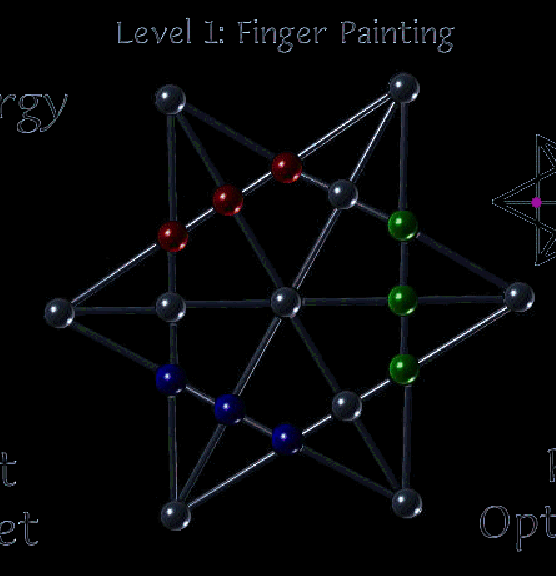
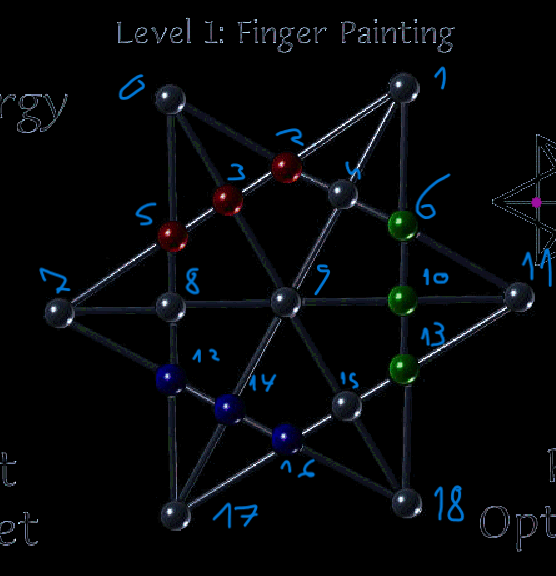
draw board

diff --git a/src/drop.py b/src/drop.py
@@ -1,40 +1,130 @@
-def move(fr, to):
-    
-    return 0
+import pygame
 
-def split(photon):
-    
-    return 0
+photon = {
+            'red':[(255,0,0),{'green':'moregreen', 'blue':'purple', 'cyan':'cyan'}, {'green':'yellow', 'blue':'purple'}, []],
+            'blue':[(0,0,255),{'red':'violet', 'green':'aqua_green', 'yellow':'light_yellow'}, {'green':'cyan', 'red':'purple'}, []],
+            'green':[(0,255,0),{'red':'orange', 'blue':'blue_sky', 'purple':'pink'}, {'red':'yellow', 'blue':'cyan'}, []],
+            'cyan':[(0,255,255),{'red':'beige'},{'red':'white'},['blue', 'green']],
+            'yellow':[(255,255,0),{'blue':'light_blue'},{'blue':'white'},['red', 'green']],
+            'purple':[(255,0,255),{'green':'light_green'},{'green':'white'},['red', 'blue']],
+            'white':[(255,255,255),0, 0, ['red', 'green', 'blue']]
+        } #{photon:[code, {pigment:mix}, {photon:mix}, [splits]]}
 
-def check_can_move(fr, to): #can move to space (empty and connected)
-    
-    return 0
+nodes = {
+        0:[2,3,5], 1:[2,4,6], 
+        2:[1,2,4,5], 
+        3:[0,2,5], 4:[1,2,6], 
+        5:[0,3,7,8], 6:[1,4,10,11], 
+        7:[5,8,12], 8:[5,7,9,12], 9:[3,4,8,10,14,15], 10:[6,9,11,13], 11:[6,10,13],
+        12:[7,8,9,14,17], 13:[10,11,15,18],
+        14:[9,12,16,17], 15:[9,13,16,18],
+        16:[14,15,17,18],
+        17:[12,14,16], 18:[13,15,16]
+        } #node1 -> node2, node2 -> node1
 
-def check_can_merge(fr, to): #can merge color
-    
-    return 0
+coords = [(250, 100),(550, 100),
+              (400, 160),
+              (325, 200),(475, 200),
+              (250, 240),(550, 240),
+              (100, 320),(250, 320),(400, 320),(550, 320),(700, 320),
+              (250, 400),(550, 400),
+              (325, 440),(475, 440),
+              (400, 480),
+              (250, 560),(550, 560)] #to draw board
+
+def check_can_photon_split(state, to_check):
+    if photon[state[to_check]] in photon:
+        return photon[state[to_check]] == []
+    return 1
+
+def check_empty(state, to_check):
+    return state[to_check] == 0
+
+def check_can_merge(state, fr, to): #can merge color
+    return state[to] in photon[state[fr]]
+
+def check_can_move(state, fr, to): #can move to space (empty and connected)
+    return to in nodes[fr]
 
 def check_win(state, goal):
     return state == goal
-    
-def main():
-    state = [0,0,0,0,0,0,0,0,0,0,0,0,0,0,0,0,0,0,0]
-    
-    photon = {
-                'red':[{'green':'moregreen', 'blue':'purple', 'cyan':'cyan'}, {'green':'yellow', 'blue':'purple'}, []],
-                'white':[0, 0, ['red', 'green', 'blue']],
-                'blue':[{'red':'violet', 'green':'aqua_green', 'yellow':'light_yellow'}, {'green':'cyan', 'red':'purple'}, []],
-                'green':[{'red':'orange', 'blue':'blue_sky', 'purple':'pink'}, {'red':'yellow', 'blue':'cyan'}, []],
-                'cyan':[{'red':'beige'},{'red':'white'},['blue', 'green']],
-                'yellow':[{'blue':'light_blue'},{'blue':'white'},['red', 'green']],
-                'purple':[{'green':'light_green'},{'green':'white'},['red', 'blue']]
-    } #{photon:[{pigment:mix}, {photon:mix}, [splits]]}
-    
-    goal = []
-    
-    nodes = {0:[2,3,5], 1:[2,4,6], 2:[1,2,4,5], 3:[0,2,5], } #node1 -> node2, node2 -> node1
-    
-    
-    max_mov = 9
+
+def split(state, photon):
+    if check_can_photon_split(state, photon):
+        return 1
     return 0
+        
+def move(state, fr, to):
+    if check_can_move(state, fr, to):
+        return 1
+    elif check_empty(to):
+        state[to] = state[fr]
+        state[fr] = 0
+        return 0
+    elif check_can_merge(state, fr, to):
+        state[to] = photon[state[to]][state[fr]]
+        state[fr] = 0
+        return 0
+    return 1
+
+def draw_photon(p_draw, screen, coord):
+    if p_draw in photon:
+        pygame.draw.circle(screen, photon[p_draw][0], coord, 20)
+    else:
+        pygame.draw.circle(screen, (105, 105, 105), coord, 20)
+
+def draw_board(state, screen):
+    i = 0
     
+    while i < len(coords):
+        draw_photon(state[0][i], screen, coords[i])
+        i += 1
+        
+    
+    
+
+def main():
+    state = [[
+              0,0,
+              'red',
+              'red',0,
+              'red','green',
+              0,0,0,'green',0,
+              'blue','green',
+              'blue',0,
+              'blue',
+              0,0
+             ], 0, 0,[]] #board, selected, nº remaining moves, goal
+
+    pygame.init()
+
+    screen_width = 800
+    screen_height = 800
+    
+    screen = pygame.display.set_mode((screen_width, screen_height))
+    
+    run = True
+    selected = False
+    
+    while run:
+        
+        l = 40
+        
+        draw_board(state, screen)
+        
+        for event in pygame.event.get():
+            if event.type == pygame.QUIT:
+                run = False
+        
+           
+        #if(pygame.mouse.get_pressed[0] and in_circle(pygame.mouse.get_pos())){
+        #    
+        #}
+            
+        pygame.display.update()
+            
+    
+    return 0
+
+if __name__ == "__main__":
+    main()

diff --git a/src/main.py b/src/main.py
@@ -1,6 +1,6 @@
 from levels import levels
 
-if name == "main":
+if __name__ == "main":
     for level in levels:
         # Create the game for the current level
         game = draw.Game(level)
